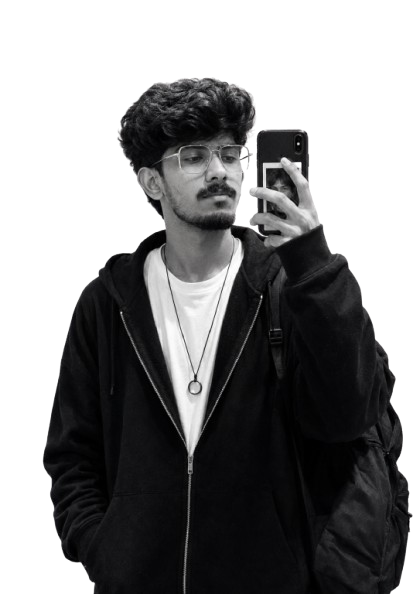
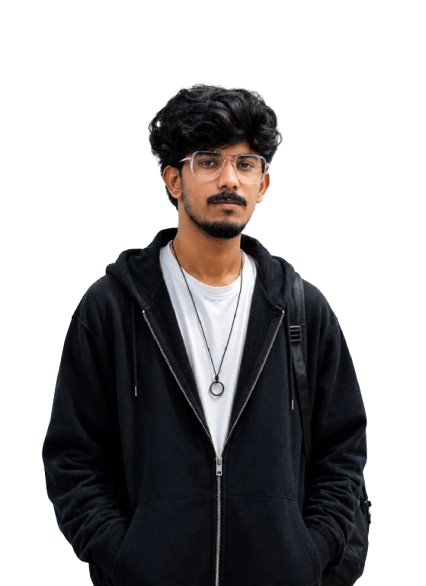
Updated portfolio

diff --git a/src/components/ProjectModal/ProjectModal.jsx b/src/components/ProjectModal/ProjectModal.jsx
@@ -1,5 +1,5 @@
 import React, { useState, useEffect } from 'react';
-import { FiX, FiGithub } from 'react-icons/fi'; // Install react-icons jika belum: npm install react-icons
+import { FiX, FiGithub, FiExternalLink } from 'react-icons/fi';
 
 const ProjectModal = ({ isOpen, onClose, project }) => {
   // State untuk mengontrol animasi penutupan
@@ -8,10 +8,11 @@ const ProjectModal = ({ isOpen, onClose, project }) => {
   // Fungsi untuk menangani penutupan dengan animasi
   const handleClose = () => {
     setIsClosing(true);
+
     // Tunggu animasi selesai (300ms) sebelum memanggil onClose dari props
     setTimeout(() => {
       onClose();
-      setIsClosing(false); // Reset state untuk pembukaan berikutnya
+      setIsClosing(false);
     }, 300);
   };
 
@@ -22,12 +23,12 @@ const ProjectModal = ({ isOpen, onClose, project }) => {
     } else {
       document.body.style.overflow = 'auto';
     }
+
     // Cleanup function
     return () => {
       document.body.style.overflow = 'auto';
     };
   }, [isOpen]);
-
 
   if (!isOpen) return null;
 
@@ -39,57 +40,100 @@ const ProjectModal = ({ isOpen, onClose, project }) => {
     >
       {/* Modal Content */}
       <div
-        onClick={(e) => e.stopPropagation()} // Mencegah modal tertutup saat diklik di dalam
-        className={`bg-zinc-900 border border-violet-500/50 rounded-2xl shadow-2xl shadow-violet-500/20 w-full max-w-lg transform transition-transform duration-300 ${isClosing ? 'animate-out' : 'animate-in'}`}
+        onClick={(e) => e.stopPropagation()}
+        className={`bg-zinc-900 border border-violet-500/50 rounded-2xl shadow-2xl shadow-violet-500/20 w-full max-w-lg transform transition-transform duration-300 ${
+          isClosing ? 'animate-out' : 'animate-in'
+        }`}
       >
         {/* --- GAMBAR PROYEK --- */}
-        <img 
-          src={project.image} 
-          alt={project.title} 
+        <img
+          src={project.image}
+          alt={project.title}
           className="w-full h-56 object-cover rounded-t-2xl"
         />
 
         <div className="p-6 flex flex-col gap-4">
-            <div className="flex justify-between items-start">
-                <h2 className="text-2xl font-bold text-white">{project.title}</h2>
-                <button
-                    onClick={handleClose}
-                    className="text-zinc-400 hover:text-white transition-colors p-2 rounded-full hover:bg-zinc-700 -mt-2 -mr-2"
-                >
-                    <FiX size={24} />
-                </button>
-            </div>
 
-            {/* --- DESKRIPSI LENGKAP --- */}
-            <p className="text-zinc-300 text-base leading-relaxed">
-                {project.fullDescription}
-            </p>
+          {/* --- TITLE + CLOSE BUTTON --- */}
+          <div className="flex justify-between items-start">
+            <h2 className="text-2xl font-bold text-white">
+              {project.title}
+            </h2>
 
+            <button
+              onClick={handleClose}
+              className="text-zinc-400 hover:text-white transition-colors p-2 rounded-full hover:bg-zinc-700 -mt-2 -mr-2"
+            >
+              <FiX size={24} />
+            </button>
+          </div>
+
+          {/* --- FULL DESCRIPTION --- */}
+          <p className="text-zinc-300 text-base leading-relaxed">
+            {project.fullDescription}
+          </p>
+
+          {/* --- ACTION BUTTONS --- */}
+          <div className="mt-4 flex gap-3 w-full">
+
+            {/* SOURCE CODE BUTTON */}
             <a
-                href={project.url}
+              href={project.url}
+              target="_blank"
+              rel="noopener noreferrer"
+              className="flex-1 inline-flex items-center justify-center gap-2 font-semibold bg-violet-600 p-3 px-4 rounded-full cursor-pointer border border-transparent hover:bg-violet-700 transition-colors"
+            >
+              <FiGithub size={18} />
+              <span>Source Code</span>
+            </a>
+
+            {/* LIVE DEMO BUTTON */}
+            {project.liveUrl && (
+              <a
+                href={project.liveUrl}
                 target="_blank"
                 rel="noopener noreferrer"
-                className="mt-4 inline-flex items-center justify-center gap-2 font-semibold bg-violet-600 p-3 px-5 rounded-full w-full cursor-pointer border border-transparent hover:bg-violet-700 transition-colors"
-            >
-                <FiGithub />
-                <span>Source Code</span>
-            </a>
+                className="flex-1 inline-flex items-center justify-center gap-2 font-semibold bg-emerald-600 p-3 px-4 rounded-full cursor-pointer border border-transparent hover:bg-emerald-700 transition-colors"
+              >
+                <FiExternalLink size={18} />
+                <span>Live Demo</span>
+              </a>
+            )}
+
+          </div>
         </div>
       </div>
-       {/* CSS untuk animasi */}
+
+      {/* --- CSS FOR MODAL ANIMATION --- */}
       <style>{`
         @keyframes scaleIn {
-          from { transform: scale(0.95); opacity: 0; }
-          to { transform: scale(1); opacity: 1; }
+          from {
+            transform: scale(0.95);
+            opacity: 0;
+          }
+
+          to {
+            transform: scale(1);
+            opacity: 1;
+          }
         }
+
         .animate-in {
           animation: scaleIn 0.3s ease-out forwards;
         }
-        
+
         @keyframes scaleOut {
-          from { transform: scale(1); opacity: 1; }
-          to { transform: scale(0.95); opacity: 0; }
+          from {
+            transform: scale(1);
+            opacity: 1;
+          }
+
+          to {
+            transform: scale(0.95);
+            opacity: 0;
+          }
         }
+
         .animate-out {
           animation: scaleOut 0.3s ease-in forwards;
         }

diff --git a/src/data.js b/src/data.js
@@ -110,7 +110,7 @@ export const listTools = [
     id: 12,
     gambar: Tools5,
     nama: "Github",
-    ket: "Repository",
+    ket: "Repositories",
     dad: "1200",
   },
   {
@@ -146,23 +146,24 @@ export const listTools = [
  
 ];
 
-import Proyek1 from "/assets/proyek/proyek1.jpg";
+import Proyek1 from "/assets/proyek/proyek1.png";
 import Proyek2 from "/assets/proyek/proyek2.jpg";
 import Proyek3 from "/assets/proyek/proyek3.jpg";
 import Proyek4 from "/assets/proyek/proyek4.jpg";
 import Proyek5 from "/assets/proyek/proyek5.jpg";
-import Proyek6 from "/assets/proyek/proyek6.jpg";
+import Proyek6 from "/assets/proyek/proyek6.png";
 
 export const listProyek = [
   {
     id: 6,
     image: Proyek6,
     title: "AI-Powered CSV Importer",
-    subtitle: "A modern and interactive portfolio website designed to showcase...",
-    fullDescription:"A modern and interactive portfolio website designed to showcase my professional journey, projects and achievements. The platform provides visitors with an engaging overview of my work, highlights my capabilities through real-world projects, and serves as a central hub for networking and career opportunities.",
+    subtitle: "Designed to simplify the processing of diverse CSV files by using AI to...",
+    fullDescription:"Designed to simplify the processing of diverse CSV files by using AI to automatically identify, map, and transform lead data into a standardized CRM-ready format. It supports flexible data structures, validation, batch processing, and seamless integration for faster and more efficient lead management.",
     borderColor: "#10B981",
     gradient: "linear-gradient(180deg, #10B981, #000)",
     url: "https://github.com/Nithishkumar-Thinakaran/AI-csv-importer",
+    liveUrl: "https://groweasy-csv-importer.netlify.app/",
     dad: "600",
   },
   {
@@ -174,6 +175,7 @@ export const listProyek = [
     borderColor: "#3B82F6",
     gradient: "linear-gradient(145deg, #3B82F6, #000)",
     url: "https://github.com/Nithishkumar-Thinakaran/Visitor-pass-management-system",
+    liveUrl: "https://visitorpassport.netlify.app/login",
     dad: "100",
   },
   {
@@ -185,6 +187,7 @@ export const listProyek = [
     borderColor: "#3B82F6",
     gradient: "linear-gradient(145deg, #3B82F6, #000)",
     url: "https://github.com/Nithishkumar-Thinakaran/notes-app",
+    liveUrl: "https://note-apy.netlify.app/login",
     dad: "500",
   },
   {

diff --git a/src/App.jsx b/src/App.jsx
@@ -292,7 +292,7 @@ function App() {
 
         {/* Proyek */}
         <div className="proyek mt-32 py-10" id="project" data-aos="fade-up" data-aos-duration="1000" data-aos-once="true"></div>
-        <h1 className="text-center text-4xl font-bold mb-2" data-aos="fade-up" data-aos-duration="1000" data-aos-once="true">Project</h1>
+        <h1 className="text-center text-4xl font-bold mb-2" data-aos="fade-up" data-aos-duration="1000" data-aos-once="true">Projects</h1>
         <p className="text-base/loose text-center opacity-50" data-aos="fade-up" data-aos-duration="1000" data-aos-delay="300" data-aos-once="true">Showcasing a selection of projects that reflect my skills, creativity, and passion for building meaningful digital experiences.</p>
         <div className="proyek-box mt-14" >
 

diff --git a/src/components/Navbar.jsx b/src/components/Navbar.jsx
@@ -35,7 +35,7 @@ const Navbar = ({ hidden = false }) => {
         <li><a href="#home" className="sm:text-lg text-base font-medium">Home</a></li>
         <li><a href="#about" className="sm:text-lg text-base font-medium">About</a></li>
         <li><a href="#journey" className="sm:text-lg text-base font-medium">Experience</a></li>
-        <li><a href="#project" className="sm:text-lg text-base font-medium">Project</a></li>
+        <li><a href="#project" className="sm:text-lg text-base font-medium">Projects</a></li>
         <li><a href="#contact" className="sm:text-lg text-base font-medium">Contact</a></li>
       </ul>
     </nav>

diff --git a/index.html b/index.html
@@ -2,7 +2,7 @@
 <html lang="en" class="scroll-smooth">
   <head>
     <meta charset="UTF-8" />
-    <link rel="icon" type="image/svg+xml" href="/assets/favicon.ico" />
+    <link rel="icon" type="image/svg+xml" href="/assets/favicon.png" />
     <meta name="viewport" content="width=device-width, initial-scale=1.0" />
 
     <!-- Font Poppins -->
